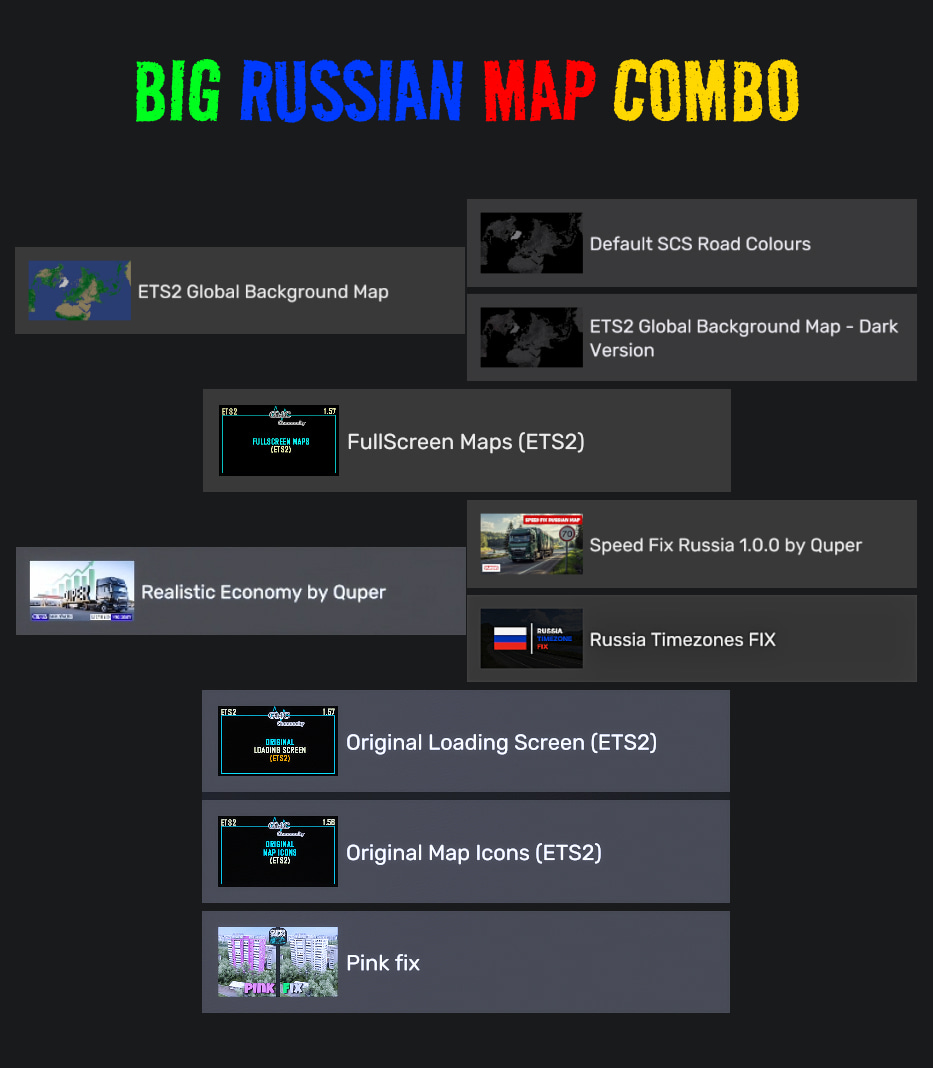
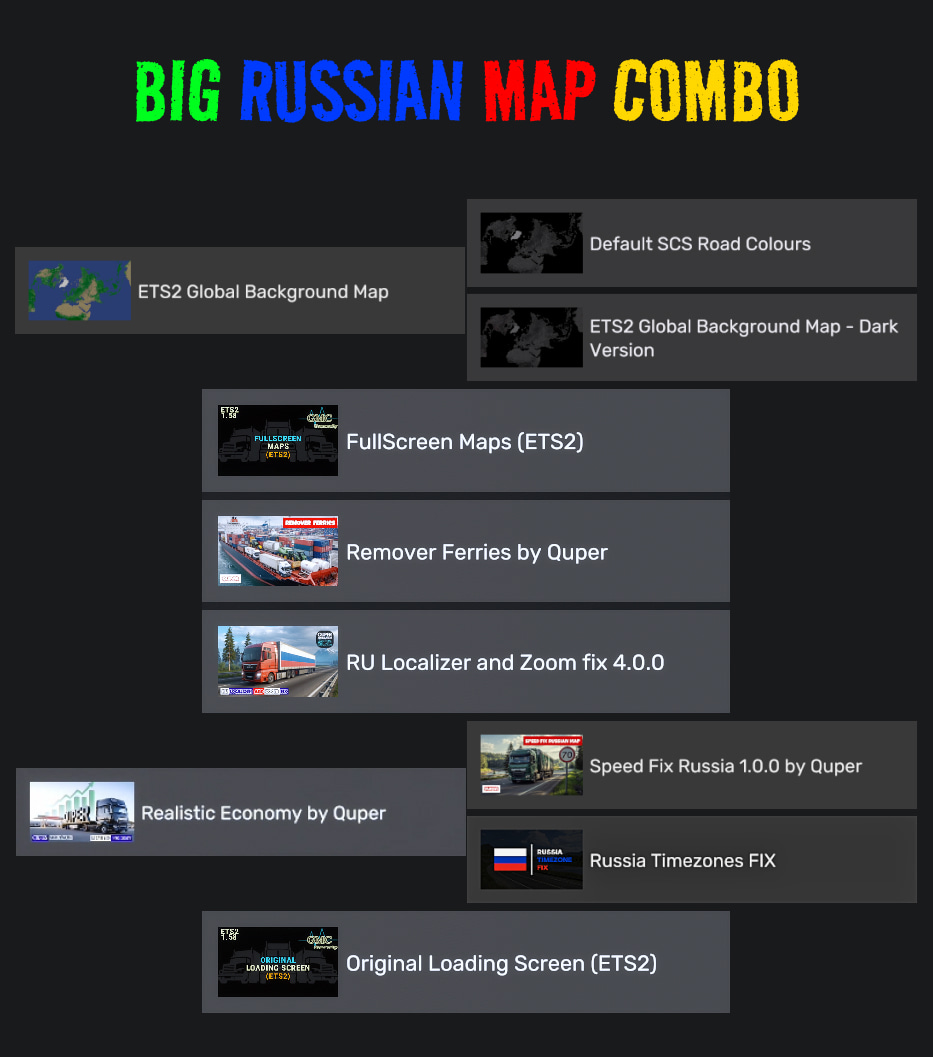
update bigrus

diff --git a/src/data/combos/v1.58.js b/src/data/combos/v1.58.js
@@ -98,15 +98,15 @@ export const combos_v1_58 = [
     title: "BIGRUSSIA MAP COMBO BETA",
     preview: "img/combos/158/ets2-bigrussia/bigrussia-preview.jpg",
     version_game: "1.58",
-    version: "2.4",
-    date: "25.02.26",
+    version: "3.0",
+    date: "07.03.26",
     video: "BcV7U0iz2Nw",
     image_top: "img/combos/158/ets2-bigrussia/bigrussia-top.jpg",
     image_bottom: "img/combos/158/ets2-bigrussia/bigrussia-bottom.jpg",
     table:
       "https://docs.google.com/spreadsheets/d/1jRDPO0Mhepox1kFe2sslD9Ac_6NCelo-t770o25bFKU/edit?gid=622349097#gid=622349097",
     profile:
-      "https://sharemods.com/w6dotu40d2iq/1.58_BIG_RUSSIA_MAP_COMBO_2.4.zip.html",
+      "https://sharemods.com/cg3h5kc0y1ny/1.58_BIG_RUSSIA_MAP_COMBO_3.0.zip.html",
   },
 
   {
